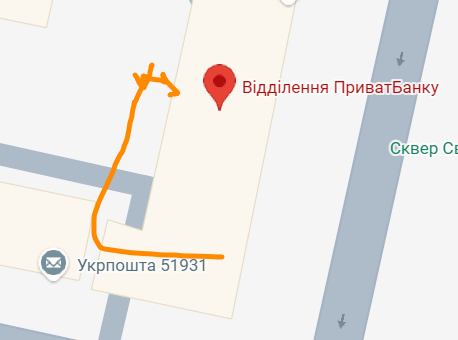
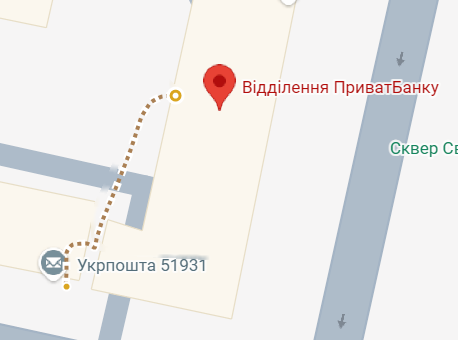
Show dotted walking route to salon entrance

Changed region(s): [[0.1528, 0.1765, 0.4891, 0.7647], [0.1223, 0.7353, 0.1528, 0.8529]]

diff --git a/index.html b/index.html
@@ -26,10 +26,9 @@
 <section class="experience"><div class="wrap experience-grid"><div><div class="eyebrow">Мій підхід</div><h2>Краса, що залишається вашою</h2><p>Перед процедурою обговорюємо ваші побажання, звички та очікуваний результат. Жодних шаблонів — лише рішення, узгоджене з вами.</p><a class="button" href="https://www.instagram.com/krasovskaya_brow" target="_blank" rel="noopener">Поставити запитання ↗</a></div><div class="features"><div class="feature"><b>Досвід</b><span>7 років практики у сфері краси.</span></div><div class="feature"><b>Увага до вас</b><span>Прислухаюся до ваших побажань.</span></div><div class="feature"><b>Ваш темп</b><span>Гнучкий графік, 4–5 робочих днів на тиждень.</span></div><div class="feature"><b>Консультація</b><span>Підкажу, з чого краще почати для обраної процедури.</span></div></div></div></section>
 <section class="intro" id="portfolio" style="background:#f6f2ec"><div class="wrap"><div class="eyebrow">Портфоліо</div><h2>Роботи та результат</h2><p>Приклади робіт до/після можна переглянути в Instagram. Фото на сайті з’являться після того, як майстер надасть матеріали.</p><a class="button" style="color:#201b16;margin-top:22px" href="https://www.instagram.com/krasovskaya_brow" target="_blank" rel="noopener">Переглянути Instagram ↗</a></div></section>
 <section class="intro" id="reviews" style="padding-top:68px"><div class="wrap"><div class="eyebrow">Відгуки</div><h2>Довіра — у вашому досвіді</h2><p>Щоб побачити актуальні відгуки клієнток, напишіть Каріні в Direct. На сайті будуть розміщені лише справжні відгуки з дозволу авторок.</p></div></section>
-<section class="contacts" id="contacts"><div class="wrap contact-grid"><div><div class="eyebrow">Контакти</div><h2>Зустрінемось у центрі</h2><div class="contact-lines">Агора Тур, проспект Свободи, 40<br>Кам’янське, Дніпропетровська область, 51900 · правий берег<br>Орієнтир — центральне відділення ПриватБанку. Вхід до кабінету позначено стрілкою на схемі.<br>Візит за попереднім записом<br><a href="https://www.instagram.com/krasovskaya_brow" target="_blank" rel="noopener">Instagram: @krasovskaya_brow ↗</a></div></div><figure class="map"><img src="entrance-route.png" alt="Схема входу: помаранчева стрілка показує шлях до входу біля Агора Тур, проспект Свободи, 40"><figcaption>Орієнтир — центральний ПриватБанк, поруч Агора Тур, проспект Свободи, 40. Пройдіть за помаранчевою стрілкою на схемі до входу.<br><a href="https://www.google.com/maps/search/?api=1&query=Агора+Тур,+проспект+Свободи,+40,+Кам%27янське,+Дніпропетровська+область,+51900" target="_blank" rel="noopener">Відкрити точну точку в Google Maps ↗</a></figcaption></figure></div></section>
+<section class="contacts" id="contacts"><div class="wrap contact-grid"><div><div class="eyebrow">Контакти</div><h2>Зустрінемось у центрі</h2><div class="contact-lines">Агора Тур, проспект Свободи, 40<br>Кам’янське, Дніпропетровська область, 51900 · правий берег<br>Орієнтир — центральне відділення ПриватБанку. Вхід до кабінету позначено на схемі.<br>Візит за попереднім записом<br><a href="https://www.instagram.com/krasovskaya_brow" target="_blank" rel="noopener">Instagram: @krasovskaya_brow ↗</a></div></div><figure class="map"><img src="entrance-route.png" alt="Пунктирний маршрут від Укрпошти вздовж дороги навколо будівлі; кінцева мітка позначає вхід"><figcaption>Від Укрпошти йдіть пунктиром уздовж дороги, обходячи будівлю. Кінцева мітка позначає вхід до кабінету.<br><a href="https://www.google.com/maps/search/?api=1&query=Агора+Тур,+проспект+Свободи,+40,+Кам%27янське,+Дніпропетровська+область,+51900" target="_blank" rel="noopener">Відкрити точну точку в Google Maps ↗</a></figcaption></figure></div></section>
 </main><footer class="footer"><div class="wrap"><span>© 2026 KRASOVSKAYA PMU BROWS</span><span>Краса, створена з увагою до вас</span></div></footer><a class="mobile-book" href="https://www.instagram.com/krasovskaya_brow" target="_blank" rel="noopener">Записатися в Direct&nbsp; ↗</a>
 </body></html>
-
 
 
 
